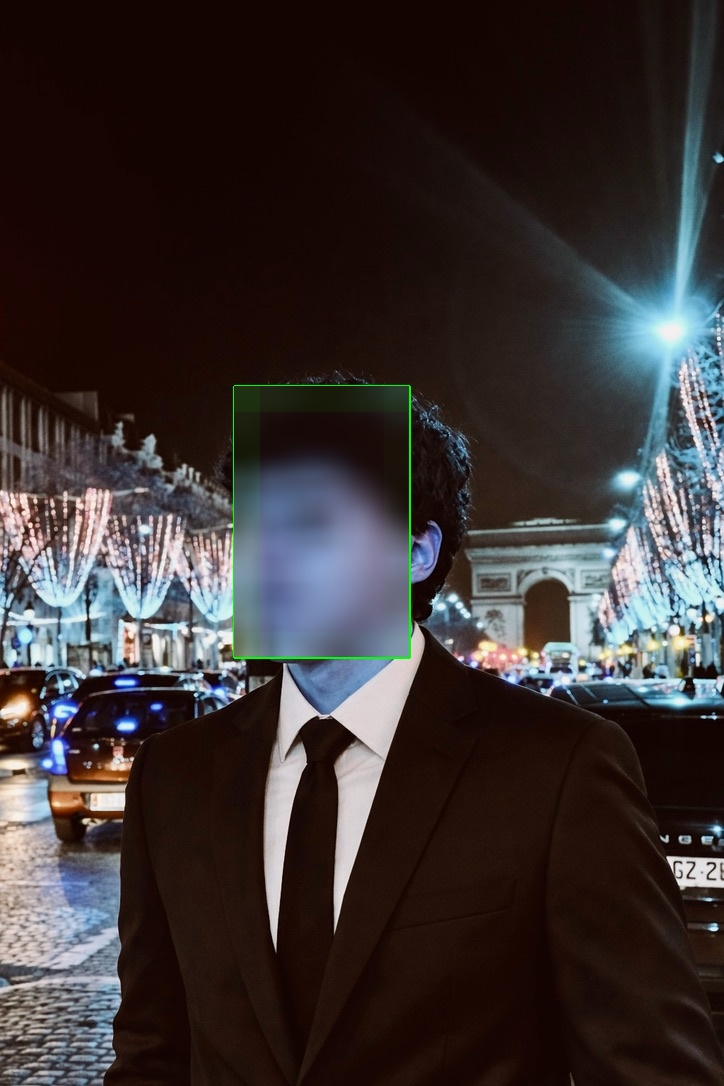
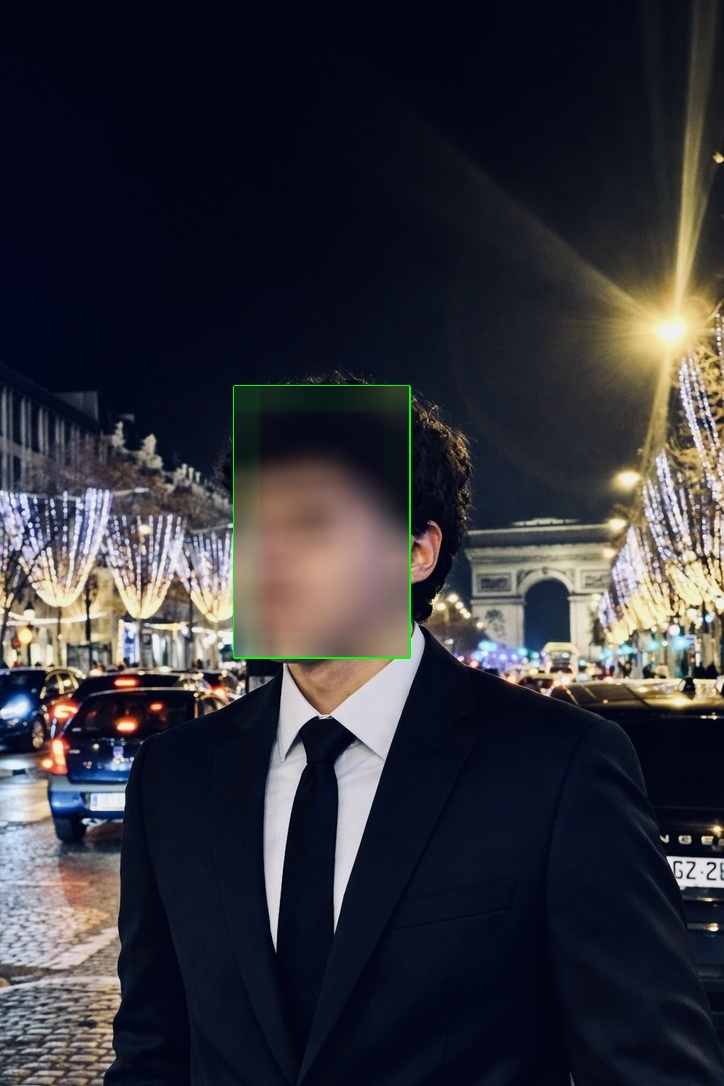
saving

diff --git a/main.py b/main.py
@@ -3,6 +3,7 @@ import cv2
 from pathlib import Path
 # pyrefly: ignore [missing-import]
 import mediapipe as mp
+import os 
 
 # Reading the image
 img_path = Path("data") / "test3.jpeg"
@@ -46,12 +47,16 @@ with FaceDetector.create_from_options(options) as face_detection :
 
         img[y1:y1+h,x1:x1+w] = cv2.blur(img[y1:y1+h,x1:x1+w],(50,50))
 
+        img= cv2.cvtColor(img, cv2.COLOR_RGB2BGR)
 
-        cv2.imshow("Image", cv2.cvtColor(img, cv2.COLOR_RGB2BGR))
+        cv2.imshow("Image", img)
         cv2.waitKey(0)
         cv2.destroyAllWindows()
     
         # saving it 
+
+        if not os.path.exists("./output"):
+            os.makedirs("output")
 
         cv2.imwrite((Path("output")/"new_test3.jpeg"),img)
 